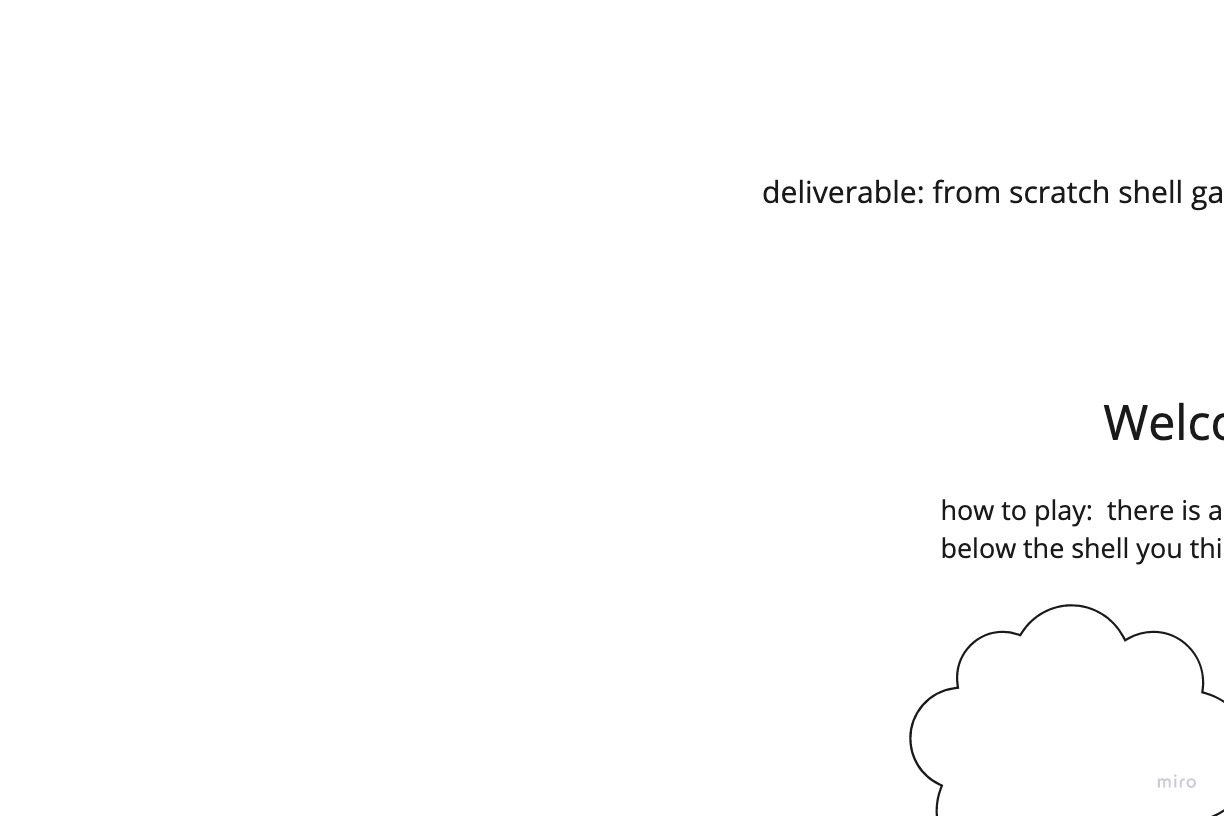
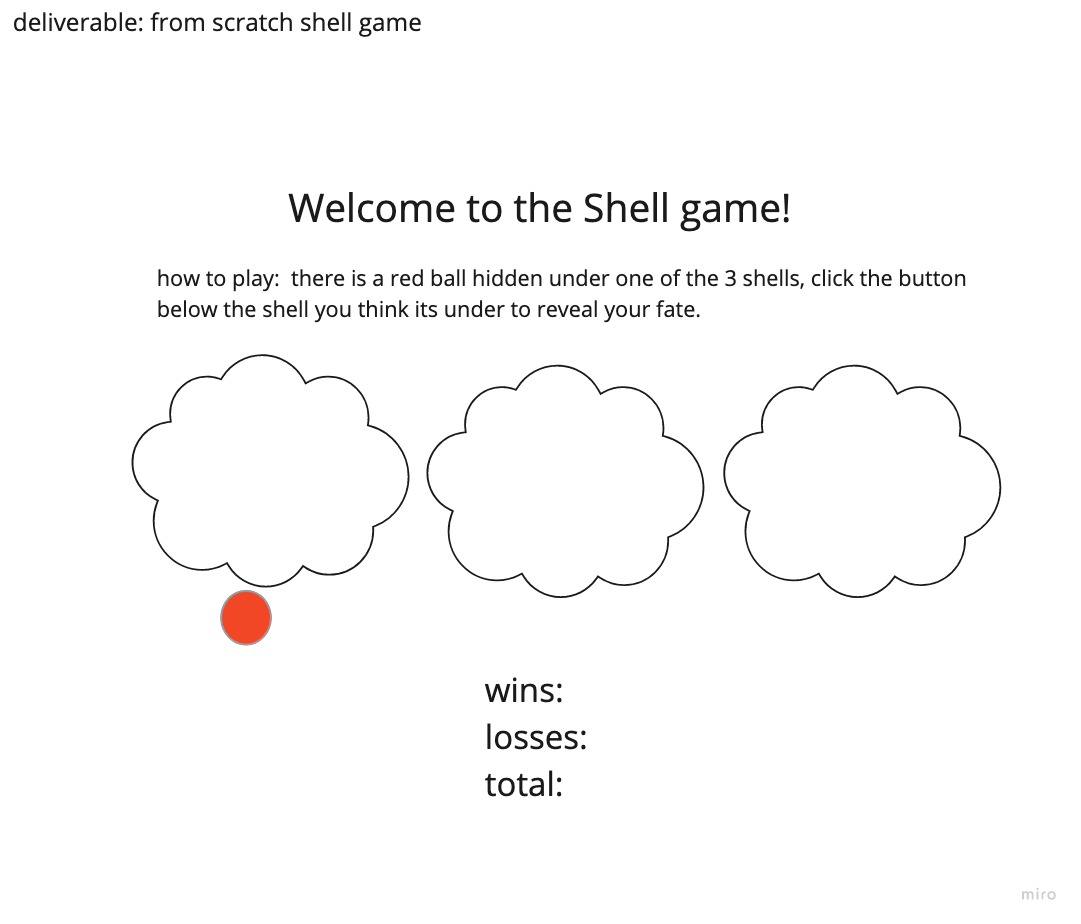
added shells, buttons, and html divs

diff --git a/index.html b/index.html
@@ -20,47 +20,29 @@
     </header>
     <main>
         <section class="main-section">
-            <img class="main-logo" src="./assets/alchemy-logo.png" />
             <h2>
-                Welcome to Alchemy Bootstrap!
+                welcome to the shell game!
             </h2>
-
-            <p>
-                Lorem ipsum dolor sit, amet consectetur adipisicing elit. Aperiam repellendus similique consectetur
-                voluptas facilis molestiae voluptates nobis error sapiente, ad, ipsa vero non, sint eligendi? Eos
-                praesentium iusto magnam exercitationem.
-                Earum sunt voluptatibus molestias, sint voluptatum quos reiciendis. Id asperiores deleniti dolores
-                provident, eius, nostrum aperiam vel, optio qui illo corrupti in. Eum quam, est nemo porro sapiente
-                excepturi assumenda.
-                Rerum unde quidem maxime. Ullam, dolores labore molestias voluptatibus adipisci quod? Quaerat nihil
-                inventore molestiae assumenda, voluptates vel necessitatibus eligendi? Accusamus ratione eligendi
-                reprehenderit? Beatae incidunt molestias ea soluta nulla.
-                Fugiat quae soluta voluptate mollitia praesentium modi ex illo, autem assumenda, vel aliquam fugit
-                possimus dolorem esse corporis ipsa! Voluptatem sapiente error non, ea optio suscipit quasi maxime nobis
-                ex?
-                Et ipsa tenetur ullam ab nesciunt quas fugit velit impedit illum esse eligendi corporis culpa
-                praesentium aspernatur ex sint veniam quidem, doloribus corrupti hic vitae. Eum neque ducimus omnis
-                exercitationem?
-            </p>
-            <hr />
-            <p>
-                Lorem ipsum dolor sit, amet consectetur adipisicing elit. Aperiam repellendus similique consectetur
-                voluptas facilis molestiae voluptates nobis error sapiente, ad, ipsa vero non, sint eligendi? Eos
-                praesentium iusto magnam exercitationem.
-                Earum sunt voluptatibus molestias, sint voluptatum quos reiciendis. Id asperiores deleniti dolores
-                provident, eius, nostrum aperiam vel, optio qui illo corrupti in. Eum quam, est nemo porro sapiente
-                excepturi assumenda.
-                Rerum unde quidem maxime. Ullam, dolores labore molestias voluptatibus adipisci quod? Quaerat nihil
-                inventore molestiae assumenda, voluptates vel necessitatibus eligendi? Accusamus ratione eligendi
-                reprehenderit? Beatae incidunt molestias ea soluta nulla.
-                Fugiat quae soluta voluptate mollitia praesentium modi ex illo, autem assumenda, vel aliquam fugit
-                possimus dolorem esse corporis ipsa! Voluptatem sapiente error non, ea optio suscipit quasi maxime nobis
-                ex?
-                Et ipsa tenetur ullam ab nesciunt quas fugit velit impedit illum esse eligendi corporis culpa
-                praesentium aspernatur ex sint veniam quidem, doloribus corrupti hic vitae. Eum neque ducimus omnis
-                exercitationem?
-            </p>
-
+            <h4>
+                a baby chick is hidden under 1 of the 3 shells. click the button to reveal your fate.
+            </h4>
+            <div class="shells">
+                <div class="shell" id="shell-1">
+                    <img src="./egg-g14e292808_640.png" id="shell-1-img">
+                    <div class="chick"></div>
+                    <button id="shell-button-1">check shell</button>
+                </div>
+                <div class="shell" id="shell-2">
+                    <div class="chick"></div>
+                    <img src="./egg-g14e292808_640.png" id="shell-2-img">
+                    <button id="shell-button-2">check shell</button>
+                </div>
+                <div class="shell" id="shell-3">
+                    <div class="chick"></div>
+                    <img src="./egg-g14e292808_640.png" id="shell-3-img">
+                    <button id="shell-button-3">check shell</button>
+                </div>
+            </div>
         </section>
     </main>
     <footer>

diff --git a/styles/home.css b/styles/home.css
@@ -1,1 +1,9 @@
 /* add home page styles here */
+h4 {
+    text-align: center;
+}
+
+img {
+    width: 300px;
+}
+
